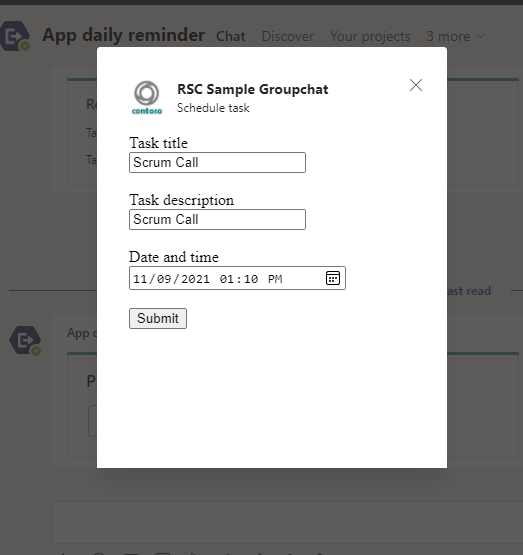
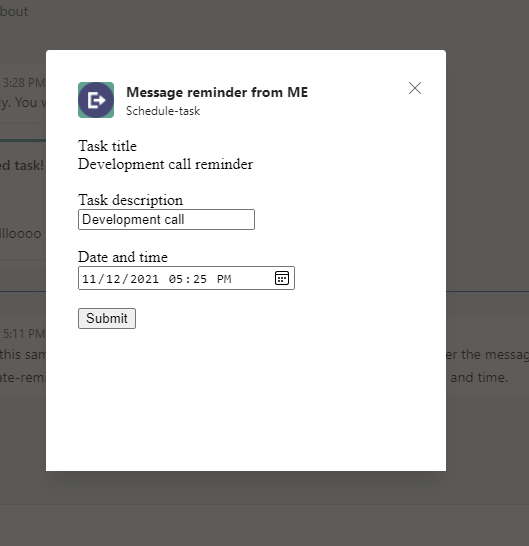
Scheduling and date time changes for message reminder sample

diff --git a/samples/bot-message-reminder/nodejs/bots/teamsBot.js b/samples/bot-message-reminder/nodejs/bots/teamsBot.js
@@ -7,19 +7,6 @@ const schedule = require('node-schedule');
 const taskDetails = {};
 var conversationReferences = {};
 var adapter;
-var messageArray = [{
-    Title: "Sample Message 1",
-    Description: "Description for sample message 1"
-}, {
-    Title: "Sample Message 2",
-    Description: "Description for sample message 2"
-}, {
-    Title: "Sample Message 3",
-    Description: "Description for sample message 3"
-}, {
-    Title: "Sample Message 4",
-    Description: "Description for sample message 4"
-}];
 
 class TeamsBot extends TeamsActivityHandler {
     constructor() {
@@ -29,125 +16,47 @@ class TeamsBot extends TeamsActivityHandler {
             const membersAdded = context.activity.membersAdded;
             for (let member = 0; member < membersAdded.length; member++) {
                 if (membersAdded[member].id !== context.activity.recipient.id) {
-                    await context.sendActivity("Hello and welcome! With this sample you can schedule a task and get reminder on the scheduled date and time.(use command 'create-reminder')");
+                    await context.sendActivity("Hello and welcome! With this sample you can schedule a message reminder by selecting `...` over the message then select more action and then create-reminder and you wil get reminder of the message at scheduled date and time.')");
                 }
             }
 
             await next();
         });
-
-        // this.onMessage(async (context, next) => {
-        //     if (context.activity.text.toLowerCase().trim() == "create-reminder") {
-        //         const userCard = CardFactory.adaptiveCard(this.adaptiveCardForTaskModule());
-        //         await context.sendActivity({ attachments: [userCard] });
-        //     }
-
-        //     // By calling next() you ensure that the next BotHandler is run.
-        //     await next();
-        // });
     }
 
-    async handleTeamsMessagingExtensionQuery(context, query) {
-        const attachments = [];
+    async handleTeamsMessagingExtensionFetchTask(context, action) {
+        var title = "";
+        var description = "";
 
-        messageArray.forEach(obj => {
-            // const heroCard = CardFactory.heroCard(obj.Title);
-            const preview = CardFactory.thumbnailCard(obj.Title, obj.Description);
-            preview.content.tap = { type: 'invoke', value: obj };
-            const attachment = { ...preview, preview };
-            attachments.push(attachment);
-        });
-
-        return {
-            composeExtension: {
-                type: 'result',
-                attachmentLayout: 'list',
-                attachments: attachments
-            }
-        };
-    }
-
-    async handleTeamsMessagingExtensionSelectItem(context, obj) {
-        const adaptiveCard = CardFactory.adaptiveCard({
-            $schema: "http://adaptivecards.io/schemas/adaptive-card.json",
-            body: [
-                {
-                    type: "TextBlock",
-                    size: "Default",
-                    weight: "Bolder",
-                    text: "Please schedule the message"
-                },
-                {
-                    type: "TextBlock",
-                    size: "Default",
-                    weight: "Default",
-                    text: "Message title: " + obj.Title,
-                    wrap: true
-                },
-                {
-                    type: "TextBlock",
-                    size: "Default",
-                    weight: "Default",
-                    text: "Message description: " + obj.Description,
-                    wrap: true
-                },
-                {
-                    type: "ActionSet",
-                    actions: [
-                        {
-                            type: "Action.Submit",
-                            title: "Schedule message",
-                            data: {
-                                msteams: {
-                                    type: "task/fetch"
-                                },
-                                id: "schedule",
-                                title: obj.Title,
-                                description: obj.Description
-                            }
-                        }
-                    ]
-                }
-            ],
-            type: "AdaptiveCard",
-            version: "1.2"
-        });
-
-        const attachment = { ...adaptiveCard, adaptiveCard };
-
-        return {
-            composeExtension: {
-                type: 'result',
-                attachmentLayout: 'list',
-                attachments: [attachment]
-            }
-        };
-    }
-
-    // Handle task module fetch.
-    handleTeamsTaskModuleFetch(context, taskModuleRequest) {
-        const cardTaskFetchId = taskModuleRequest.data.id;
-        var taskInfo = {}; // TaskModuleTaskInfo
-        let title = taskModuleRequest.data.title;
-        let description = taskModuleRequest.data.description;
-
-        if (cardTaskFetchId == "schedule") {
-            taskInfo.url = taskInfo.fallbackUrl = this.baseUrl + "/scheduleTask?title=" + title + "&description=" + description;
-            taskInfo.height = 350;
-            taskInfo.width = 350;
-            taskInfo.title = "Schedule task";
+        if (action.messagePayload.subject != null) {
+            title = action.messagePayload.body.content;
+            description = action.messagePayload.subject;
         }
 
-        return TaskModuleResponseFactory.toTaskModuleResponse(taskInfo);
+        else {
+            title = action.messagePayload.body.content;
+        }
+
+        return {
+            task: {
+                type: 'continue',
+                value: {
+                    width: 350,
+                    height: 350,
+                    title: 'Schedule task',
+                    url: this.baseUrl + "/scheduleTask?title=" + title + "&description=" + description
+                }
+            }
+        };
     }
 
     // Handle task module submit action.
-    async handleTeamsTaskModuleSubmit(context, taskModuleRequest) {
+    async  handleTeamsMessagingExtensionSubmitAction(context, action) {
         // Create new object to save task details.
         let taskDetails = {
-            title: taskModuleRequest.data.title,
-            dateTime: taskModuleRequest.data.dateTime,
-            description: taskModuleRequest.data.description,
+            title: action.data.title,
+            dateTime: action.data.dateTime,
+            description: action.data.description,
         };
 
         this.saveTaskDetails(taskDetails);
@@ -157,14 +66,16 @@ class TeamsBot extends TeamsActivityHandler {
         conversationReferences[currentUser] = TurnContext.getConversationReference(context.activity);
         adapter = context.adapter;
 
-        var year = taskModuleRequest.data.dateTime.substring(0, 4);
-        var month = taskModuleRequest.data.dateTime.substring(5, 7);
-        var day = taskModuleRequest.data.dateTime.substring(8, 10);
-        var hour = taskModuleRequest.data.dateTime.substring(11, 13);
-        var min = taskModuleRequest.data.dateTime.substring(14, 16);
-        const date = new Date(year, month - 1, day, hour, min);
+        var dateLocal = new Date(action.data.dateTime);
+        var dateLocalString = dateLocal.toLocaleString();
+        var month = dateLocalString.substring(0, 2);
+        var day = dateLocalString.substring(3, 5);
+        var year = dateLocalString.substring(6, 10);
+        var hour = dateLocal.getHours();
+        var min = dateLocal.getMinutes();
+        const scheduleDate = new Date(year, month -1, day, hour, min);
 
-        const job = schedule.scheduleJob(date, async function () {
+        const job = schedule.scheduleJob(scheduleDate, async function () {
             await adapter.continueConversation(conversationReferences[currentUser], async turnContext => {
                 const userCard = CardFactory.adaptiveCard({
                     $schema: "http://adaptivecards.io/schemas/adaptive-card.json",

diff --git a/samples/bot-message-reminder/nodejs/Readme.md b/samples/bot-message-reminder/nodejs/Readme.md
@@ -1,12 +1,18 @@
-## Bot task reminder
+## Message reminder with messaging extension action
 
-This sample shows feature where user can schedule a task and get reminder on the scheduled date and time.
+This sample shows feature where user can schedule a task from messaging extension action and get a reminder card at scheduled time.
 
-![Schedule task ](Images/ScheduleTaskCard.png)
+![Select message](Images/MessageAction.png)
 
-![Task Details ](Images/ScheduleTask.png)
+![Task Details](Images/ScheduleTask.png)
 
 ![Task reminder](Images/TaskReminder.png)
+
+![Team message action ](Images/MessageActionTeam.png)
+
+![Team Task Details ](Images/ScheduleTaskTeam.png)
+
+![ TeamTask reminder](Images/TaskReminderTeam.png)
 
 ## Prerequisites
 
@@ -31,7 +37,7 @@ In Azure portal, create a [Azure Bot resource](https://docs.microsoft.com/en-us/
     git clone https://github.com/OfficeDev/Microsoft-Teams-Samples.git
     ```
 
-2) In a terminal, navigate to `samples/bot-task-reminder/nodejs`
+2) In a terminal, navigate to `samples/bot-message-reminder/nodejs`
 
 3) Install modules
 
@@ -58,13 +64,19 @@ In Azure portal, create a [Azure Bot resource](https://docs.microsoft.com/en-us/
 
 ## Features of this sample
 
-- Card with actions `Schedule task`. 
+- Personal scope scenario
 
-![Schedule task ](Images/ScheduleTaskCard.png)
+![Select message](Images/MessageAction.png)
 
-![Task Details ](Images/ScheduleTask.png)
-
-- Task reminder
+![Task Details](Images/ScheduleTask.png)
 
 ![Task reminder](Images/TaskReminder.png)
+
+- Team scope scenario
+
+![Team message action ](Images/MessageActionTeam.png)
+
+![Team Task Details ](Images/ScheduleTaskTeam.png)
+
+![ TeamTask reminder](Images/TaskReminderTeam.png)
 

diff --git a/README.md b/README.md
@@ -153,6 +153,7 @@ Here are all the samples which are deployed on Microsoft Azure and you can try i
 |14| App Installtion  using QR code |This sample demos app installation using QR code of application's app id | [View][qrappinstallation#csharp] | [View][qrappinstallation#nodejs]
 |15| Archive groupchat messages | Demonstrating on how a bot can archive groupchat messages and send it to user as a file. | [View][fetchgroupchatmessages#csharp] |[View][fetchgroupchatmessages#nodejs]|
 |16| App check in location | Demonstrating feature where user can checkin with current location and view all previous checkins. | [View][appcheckinlocation#csharp] |[View][checkinlocation#nodejs]|
+|17| Message reminder messaging extension | Demonstrating feature where user can schedule a task from messaging extension action and get a reminder card at scheduled time ||[View][memessagereminder#nodejs]|
 
 [app-hello-world#cs]:samples/app-hello-world/csharp
 [app-hello-world#ts]:samples/app-hello-world/nodejs
@@ -237,6 +238,7 @@ Here are all the samples which are deployed on Microsoft Azure and you can try i
 [appcheckinlocation#csharp]:samples/app-checkin-location/csharp
 [checkinlocation#nodejs]:samples/app-checkin-location/nodejs
 [productinspection#nodejs]:samples/tab-product-inspection/nodejs
+[memessagereminder#nodejs]:samples/bot-message-reminder/nodejs
 
 [app-localization#cs]:samples/app-localization/csharp
 [app-localization#js]:samples/app-localization/nodejs
